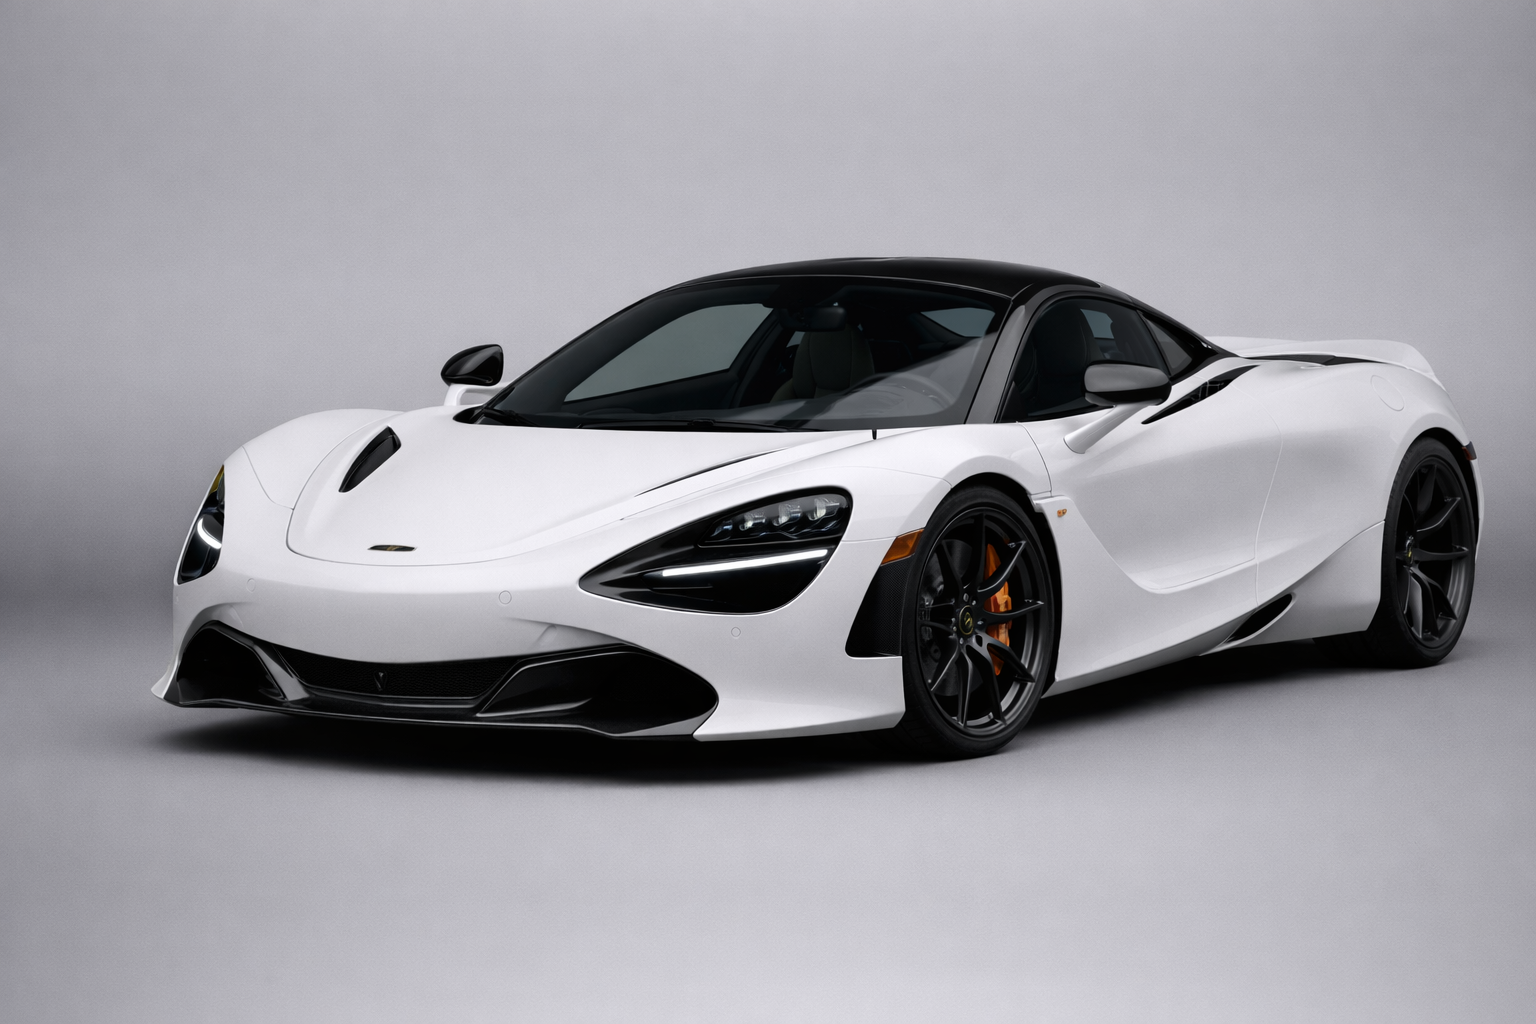
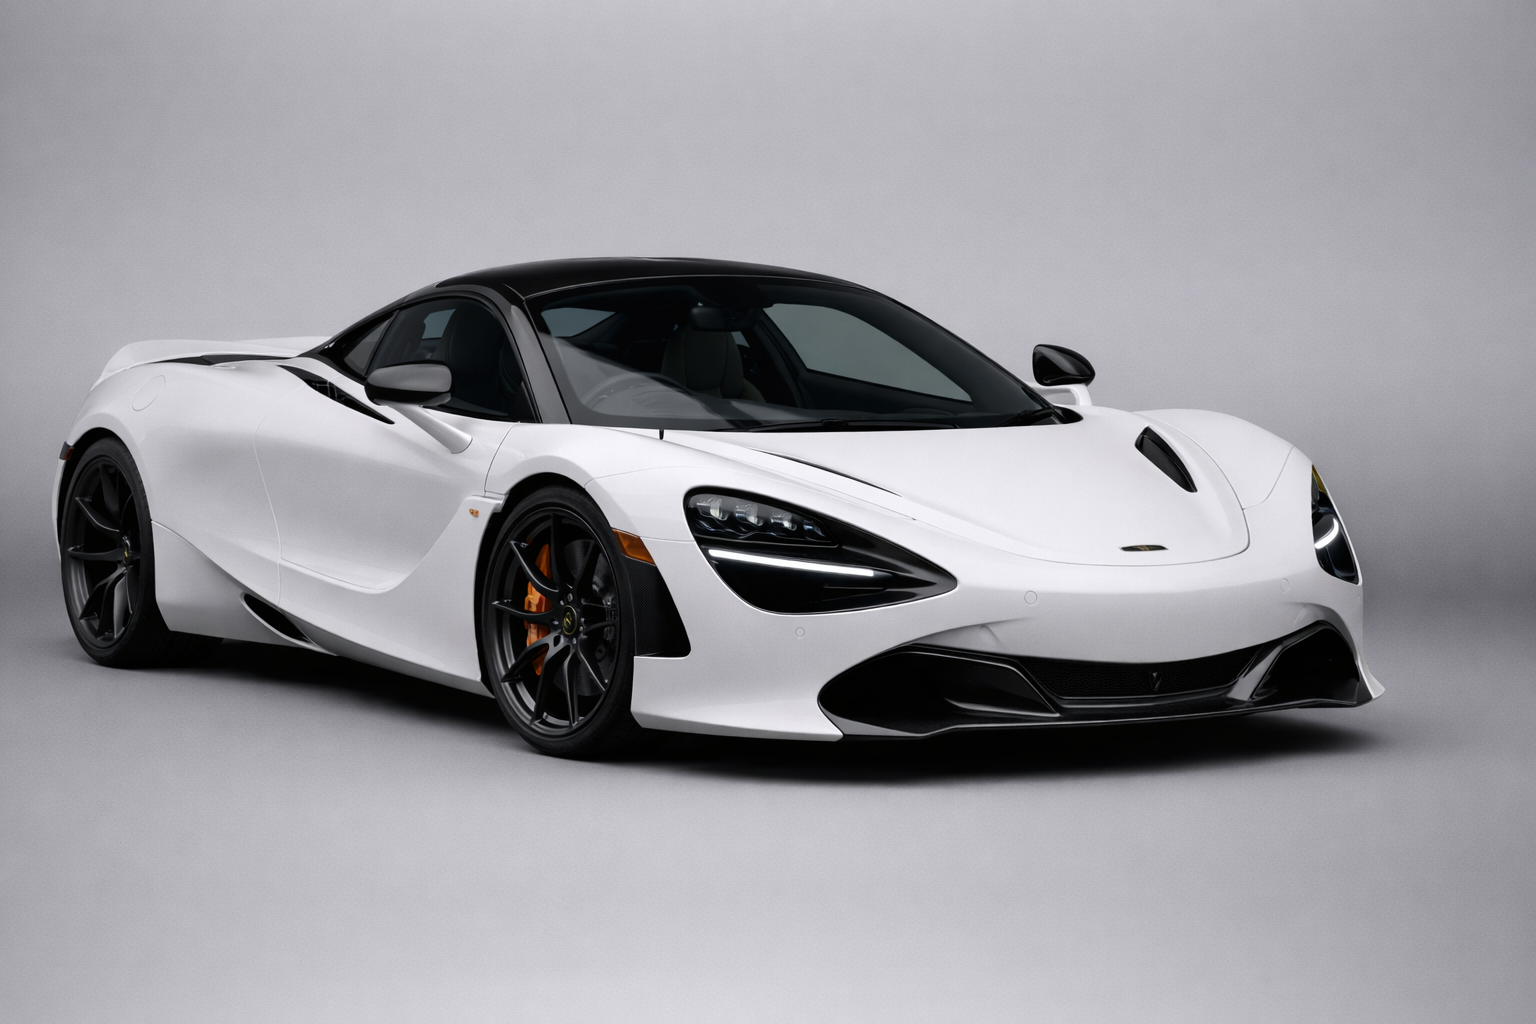
updates

diff --git a/index.html b/index.html
@@ -3,7 +3,7 @@
   <head>
     <meta charset="UTF-8" />
     <meta name="viewport" content="width=device-width, initial-scale=1.0" />
-    <title>showcase</title>
+    <title>Showcase</title>
 
     <link rel="stylesheet" href="style.css" />
   </head>
@@ -28,7 +28,7 @@
           <div class="intro-box">
             <img
               src="assets/intro-image.png"
-              alt="carros de luxo em exibicao"
+              alt="Luxury cars on display"
             />
             <h2>Supercars and Muscle Cars</h2>
             <p>
@@ -42,48 +42,110 @@
             </p>
           </div>
         </section>
-        <section class="car-section">
+
+        <section class="car-section lamborghini">
           <div class="car-image-side">
             <img
               src="assets/super cars/Aventador SVJ.png"
-              alt="aventador svj"
+              alt="Lamborghini Aventador SVJ"
             />
           </div>
 
           <div class="car-info-side">
             <div class="car-brand">Lamborghini</div>
-
             <h2 class="car-title">Aventador <span>SVJ</span></h2>
 
             <div class="car-actions">
-              <a href="#" class="action-btn"
-                >Discover the Lamborghini Aventador SVJ</a
-              >
+              <a href="#" class="action-btn">
+                Discover the Lamborghini Aventador SVJ
+              </a>
               <a href="#" class="action-btn">View Specifications</a>
             </div>
           </div>
         </section>
-        <section class="car-section reverse">
 
+        <section class="car-section reverse ferrari">
           <div class="car-image-side">
-            <img src="assets/super cars/LaFerrari.png">
+            <img
+              src="assets/super cars/LaFerrari.png"
+              alt="Ferrari LaFerrari"
+            />
           </div>
-        
+
           <div class="car-info-side">
-        
             <div class="car-brand">Ferrari</div>
-        
-            <h2 class="car-title">
-              812 <span>Competizione</span>
-            </h2>
-        
+            <h2 class="car-title">La<span>Ferrari</span></h2>
+
             <div class="car-actions">
-              <a href="#" class="action-btn">Discover Ferrari 812 Competizione</a>
+              <a href="#" class="action-btn">
+                Discover the Ferrari LaFerrari
+              </a>
               <a href="#" class="action-btn">View Specifications</a>
             </div>
-        
           </div>
-        
+        </section>
+
+        <section class="car-section mercedes">
+          <div class="car-image-side">
+            <img
+              src="assets/super cars/Mercedes-AMG GT Black Series.png"
+              alt="Mercedes-AMG GT Black Series"
+            />
+          </div>
+
+          <div class="car-info-side">
+            <div class="car-brand">Mercedes-AMG</div>
+            <h2 class="car-title">GT Black <span>Series</span></h2>
+
+            <div class="car-actions">
+              <a href="#" class="action-btn">
+                Discover the Mercedes-AMG GT Black Series
+              </a>
+              <a href="#" class="action-btn">View Specifications</a>
+            </div>
+          </div>
+        </section>
+
+        <section class="car-section reverse porsche">
+          <div class="car-image-side">
+            <img
+              src="assets/super cars/porshe911 GT3.png"
+              alt="Porsche 911 GT3"
+            />
+          </div>
+
+          <div class="car-info-side">
+            <div class="car-brand">Porsche</div>
+            <h2 class="car-title">911 <span>GT3</span></h2>
+
+            <div class="car-actions">
+              <a href="#" class="action-btn">
+                Discover the Porsche 911 GT3
+              </a>
+              <a href="#" class="action-btn">View Specifications</a>
+            </div>
+          </div>
+        </section>
+
+        <section class="car-section mclaren">
+          <div class="car-image-side">
+            <img
+              src="assets/super cars/Super Series da McLaren.png"
+              alt="McLaren Super Series"
+            />
+          </div>
+
+          <div class="car-info-side">
+            <div class="car-brand">McLaren</div>
+            <h2 class="car-title">Super <span>Series</span></h2>
+
+            <div class="car-actions">
+              <a href="#" class="action-btn">
+                Discover the McLaren Super Series
+              </a>
+              <a href="#" class="action-btn">View Specifications</a>
+            </div>
+          </div>
         </section>
       </div>
     </main>

diff --git a/style.css b/style.css
@@ -13,12 +13,14 @@ body {
 
 /* faixa do topo */
 .banner {
+
   background-color: #8b0000;
   padding: 25px 0;
 }
 
 /* limite do conteúdo */
 .banner-content {
+  
   max-width: 1200px;
   margin: 0 auto;
   padding: 0 20px;
@@ -26,6 +28,7 @@ body {
 
 /* titulo principal */
 .banner-title {
+
   display: flex;
   align-items: center;
   gap: 12px;
@@ -57,6 +60,7 @@ body {
 
 /* box da introdução */
 .intro-box {
+  
   background: #161616;
   color: white;
   padding: 15px;
@@ -67,15 +71,20 @@ body {
 
 /* imagem da intro */
 .intro-box img {
+
   display: block;
   width: 100%;
-  height: 600px;
+  max-width: fit-content;
+  height: 320;
+  object-fit: contain;
   border-radius: 20px;
   margin-bottom: 20px;
+  
 }
 
 /* titulo da intro */
 .intro-box h2 {
+
   text-align: center;
   margin-bottom: 15px;
   font-size: 28px;
@@ -100,6 +109,7 @@ body {
   display: flex;
   justify-content: center;
   align-items: center;
+  
 }
 
 .car-image-side img {
@@ -107,7 +117,11 @@ body {
   max-width: 520px;
   display: block;
   object-fit: contain;
-}
+
+  border-radius: 12px;
+  box-shadow: 0px 15px 40px rgba(0,0,0,0.6);
+};
+
 
 .car-info-side {
   flex: 1;
@@ -183,7 +197,14 @@ body {
 }
 .car-section:last-child {
   border-bottom: 1px solid rgba(255, 255, 255, 0.35);
+  
 }
 .car-section.reverse {
   flex-direction: row-reverse;
 }
+
+.lamborghini .car-title span { color: blue; }
+.ferrari .car-title span { color: red; }
+.mercedes .car-title span { color: yellow; }
+.porsche .car-title span { color: silver; }
+.mclaren .car-title span { color: white; }
